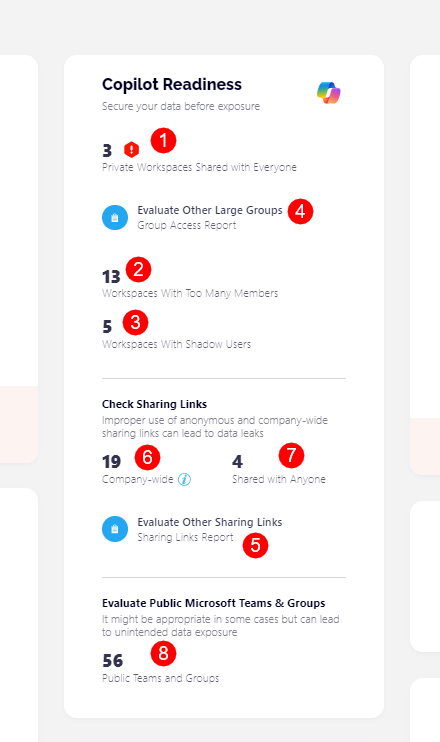
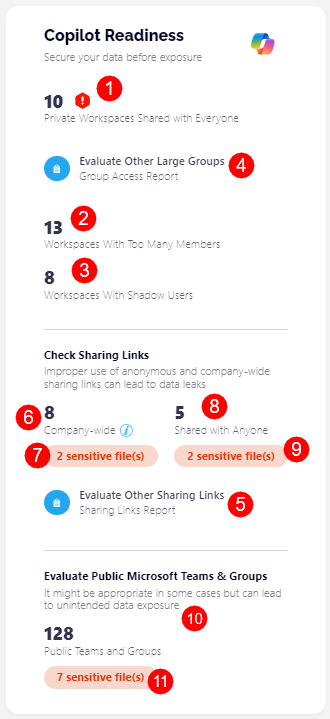
copilot changes

diff --git a/microsoft365-inventory/explore-your-microsoft-365-dashboard.md b/microsoft365-inventory/explore-your-microsoft-365-dashboard.md
@@ -19,6 +19,7 @@ The **Syskit Point** Dashboard shows Syskit Point administrators the following i
  * Users
  * Storage
  * Security & Compliance
+ * Copilot Readiness
  * External Collaboration
  * Active Access Review
  * Lifecycle Management
@@ -101,9 +102,13 @@ This tile provides the following storage metrics:
 * **used storage**
 * **free storage**
 
-Information about used storage is also given for each workspace type separately.
+The **View All** link opens the **Storage Metrics report** showing tenant-wide storage usage, usage trend through time, and the largest sites in your tenant.
 
-**View All** link opens the **Storage Metrics report** showing tenant-wide storage usage, usage trend through time, and the largest sites in your tenant.
+You can also find information on:
+* How much storage you saved
+* How much storage you could save
+
+The **Clean Up** link opens the **Storage Metrics report** where you can select the workspaces you want to perform a storage clean up on.
 
 ![Storage tile ](../.gitbook/assets/dashboard-storage-tile.png)
 
@@ -145,6 +150,22 @@ The following information is tracked and available there:
 Syskit Point performs regular security and compliance checks for you and presents the results directly on your home screen.
 
 [For more details on Security and Compliance checks, take a look at this article.](../governance-and-automation/security-compliance-checks/security-compliance-checks.md)
+
+## Copilot Readiness
+
+The Copilot Readiness tile on the Syskit dashboard **helps  businesses as they prepare to integrate Copilot into their workflow** or those that want to stay on top of policy vulnerabilities or overshared workspaces that could pose a security risk. By providing a **clear and comprehensive Copilot Readiness score**, you are able to quickly **identify vulnerabilities**.
+
+The tile on the Dashboard shows:
+* Number of vulnerabilities detected for the Workspaces **Shared with Everyone policies (1)**, the Workspaces with **Too Many Members (2)**, Workspaces with **Shadow Users (3)**
+* The **Group Access (4) and Sharing Links reports (5)**
+* The number of **company-wide sharing links (6)** as well as **company-wide sharing links that contain sensitive files (7)**
+* The number of **links shared with anyone (8) and links shared with anyone that contain sensitive files (9)**
+* The number of **public workspaces (10)** and the **public workspaces with sensitive files (11)**
+
+![Copilot Readiness Tile](../.gitbook/assets/copilot-readiness-tile.png)
+
+
+[For more details on how to navigate the Copilot Readiness tile, take a look at this article.](../microsoft365-inventory/copilot-readiness.md)
 
 ## External Collaboration
 

diff --git a/microsoft365-inventory/copilot-readiness.md b/microsoft365-inventory/copilot-readiness.md
@@ -10,12 +10,30 @@ By providing a clear and comprehensive Copilot Readiness score, you are able to 
 
 The following is counted for the Copilot Readiness:
 
-* Number of vulnerabilities detected for the Workspaces with **Too Many Members (1), Workspaces with Shadow Users (2), and Workspaces Shared with Everyone policies (3)**
+* Number of vulnerabilities detected for the **Workspaces Shared with Everyone policies (1), the Workspaces with Too Many Members (2), Workspaces with Shadow Users (3)**
 * The **Group Access (4) and Sharing Links reports (5)**
-* The number of **company-wide sharing links (6) and links shared with everyone (7)**
-* The number of **public workspaces (8)**
+* The number of **company-wide sharing links (6)** as well as **company-wide sharing links that contain sensitive files (7)**
+* The number of **links shared with anyone (8) and links shared with anyone that contain sensitive files (9)**
+* The number of **public workspaces (10)** and the **public workspaces with sensitive files (11)**
 
 ![Copilot Readiness Tile](../.gitbook/assets/copilot-readiness-tile.png)
+
+
+## Sensitive Files 
+
+{% hint style="warning" %}
+**Please note!**  
+For sensitive files to be detected and shown on the Copilot Readiness tile, you need to set it up through the Settings of Syskit Point. 
+
+{% endhint %}
+
+To enable sensitive files being shown on the Copilot Readiness score **go to Settings**.
+
+ * Under **General**, navigate to the **Sensitive Content section (1)**
+ * **Click the arrow (2)** to open selection box where you can **check the box for the sensitivity labels** you want included in the sensitive files reports
+* **Click Save (3)** to finalize your selection
+
+![Copilot Readiness Tile - Settings for Sensitive Files](../.gitbook/assets/copilot-readiness-tile-sensitive-files.png)
 
 ## Reports
 

diff --git a/SUMMARY.md b/SUMMARY.md
@@ -121,6 +121,7 @@
   * [Sites](microsoft365-inventory/sites.md)
   * [Microsoft Teams & Groups](microsoft365-inventory/microsoft-teams-and-groups.md)
   * [Users](microsoft365-inventory/users.md)
+  * [Copilot Readiness](microsoft365-inventory/copilot-readiness.md)
 * [Configuration](configuration/README.md)
   * [Syskit Point Configuration Guide](configuration/how-to-configure-Point.md)
   * [Assign and Manage Access to Syskit Point](configuration/enable-role-based-access.md)
@@ -143,7 +144,6 @@
   * [Audit for Syskit Point Settings](configuration/audit-log-for-settings.md)
 * [Reporting](reporting/README.md)
   * [Overview](reporting/overview.md)
-  * [Copilot Readiness](reporting/copilot-readiness.md)
   * [External Sharing Reports](reporting/external-sharing-reports.md)
   * [Access Reports](reporting/access-reports.md)
   * [Audit Reports](reporting/audit-reports.md)
